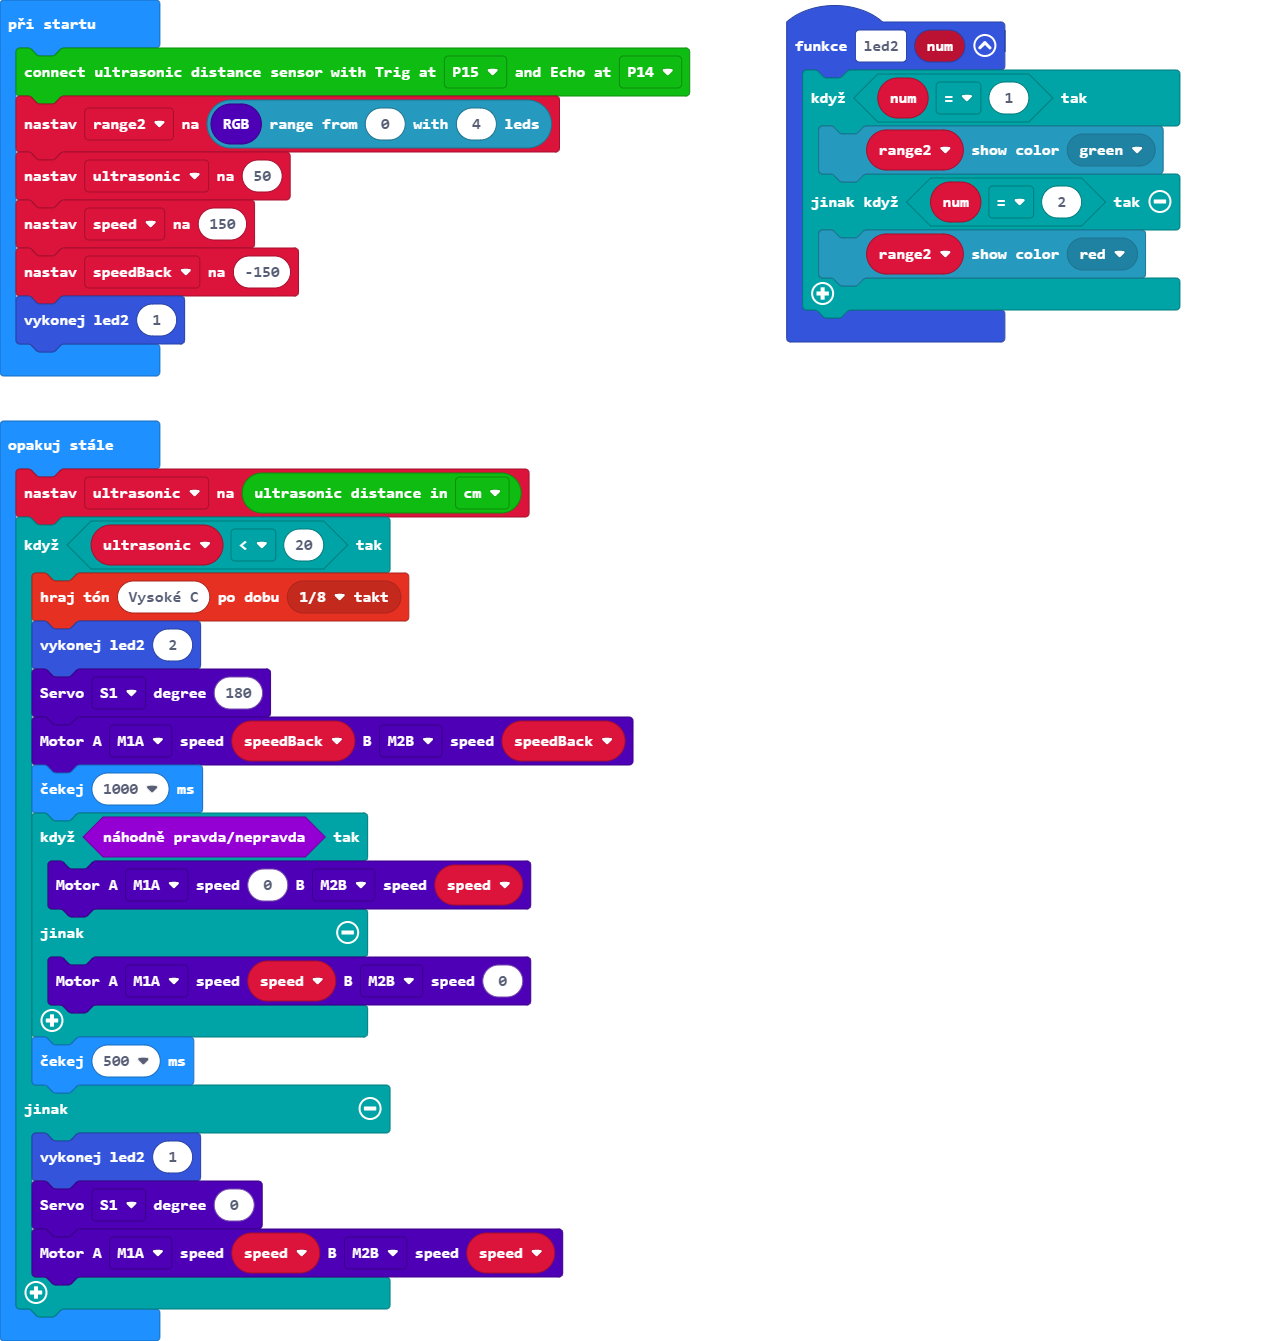
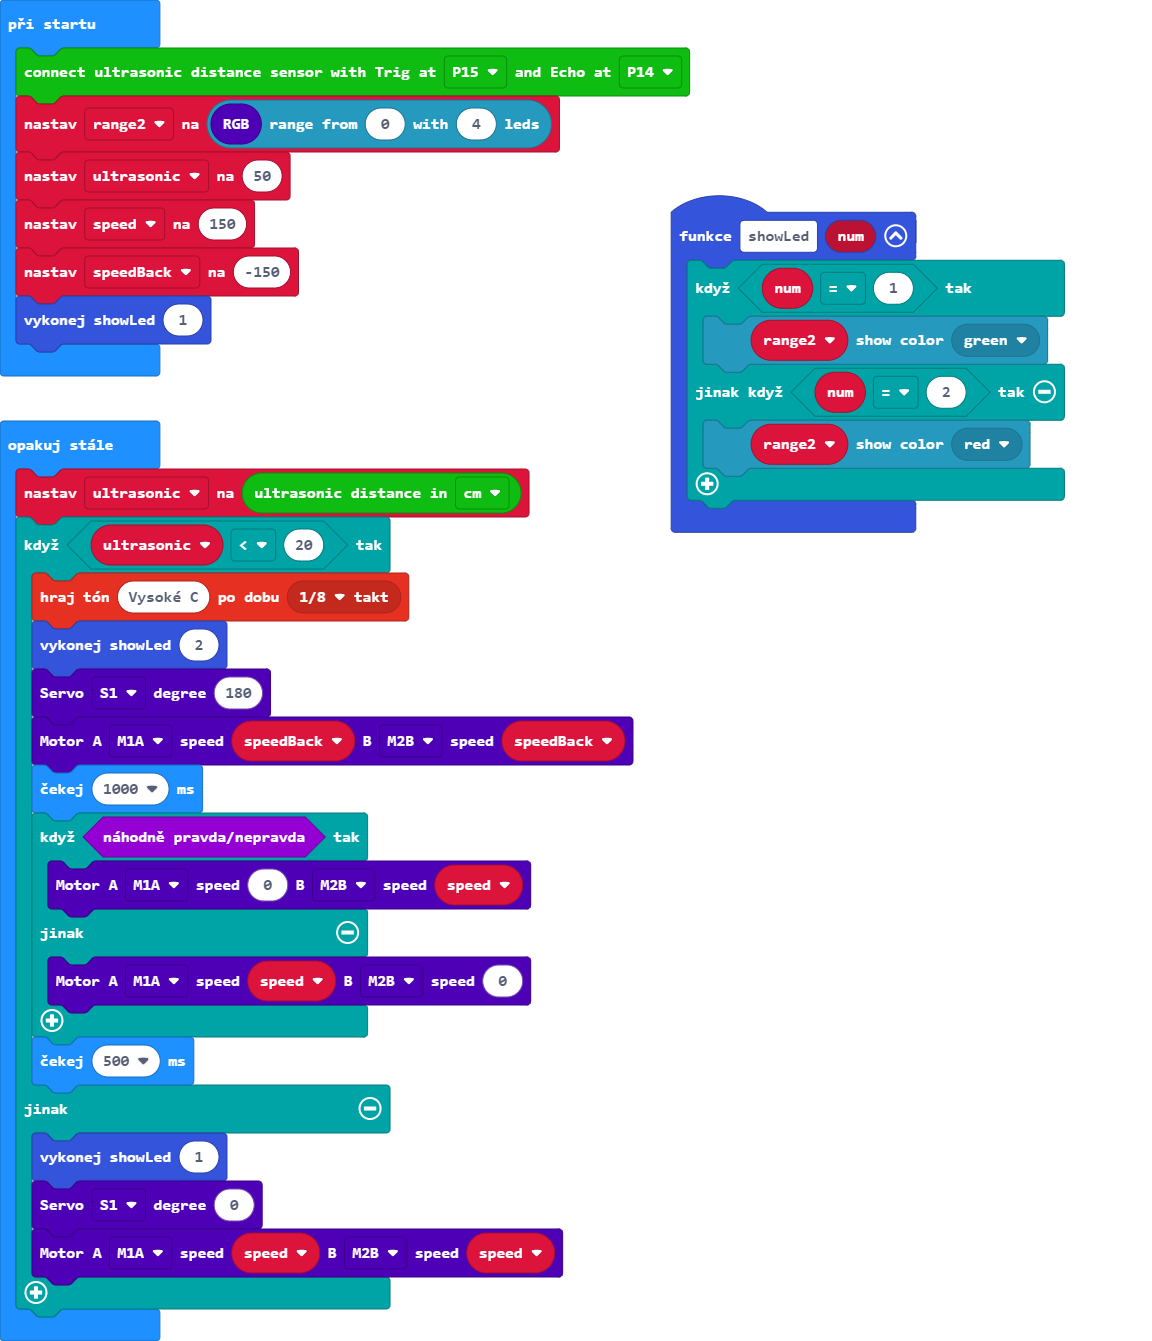
Update pxt.json, main.blocks, main.ts

Changed region(s): [[0.0, 0.0, 0.9375, 0.3975], [0.0, 0.3057, 0.5625, 0.9784], [0.125, 0.9784, 0.1562, 1.0]]

diff --git a/main.ts b/main.ts
@@ -1,4 +1,4 @@
-function led2 (num: number) {
+function showLed (num: number) {
     if (num == 1) {
         range2.showColor(neopixel.colors(NeoPixelColors.Green))
     } else if (num == 2) {
@@ -11,12 +11,12 @@ range2 = robotAtom.rgb().range(0, 4)
 let ultrasonic = 50
 let speed = 150
 let speedBack = -150
-led2(1)
+showLed(1)
 basic.forever(function () {
     ultrasonic = makerbit.getUltrasonicDistance(DistanceUnit.CM)
     if (ultrasonic < 20) {
         music.playTone(523, music.beat(BeatFraction.Eighth))
-        led2(2)
+        showLed(2)
         robotAtom.Servo(robotAtom.Servos.S1, 180)
         robotAtom.MotorRunDual(robotAtom.Motors.M1A, speedBack, robotAtom.Motors.M2B, speedBack)
         basic.pause(1000)
@@ -27,7 +27,7 @@ basic.forever(function () {
         }
         basic.pause(500)
     } else {
-        led2(1)
+        showLed(1)
         robotAtom.Servo(robotAtom.Servos.S1, 0)
         robotAtom.MotorRunDual(robotAtom.Motors.M1A, speed, robotAtom.Motors.M2B, speed)
     }
